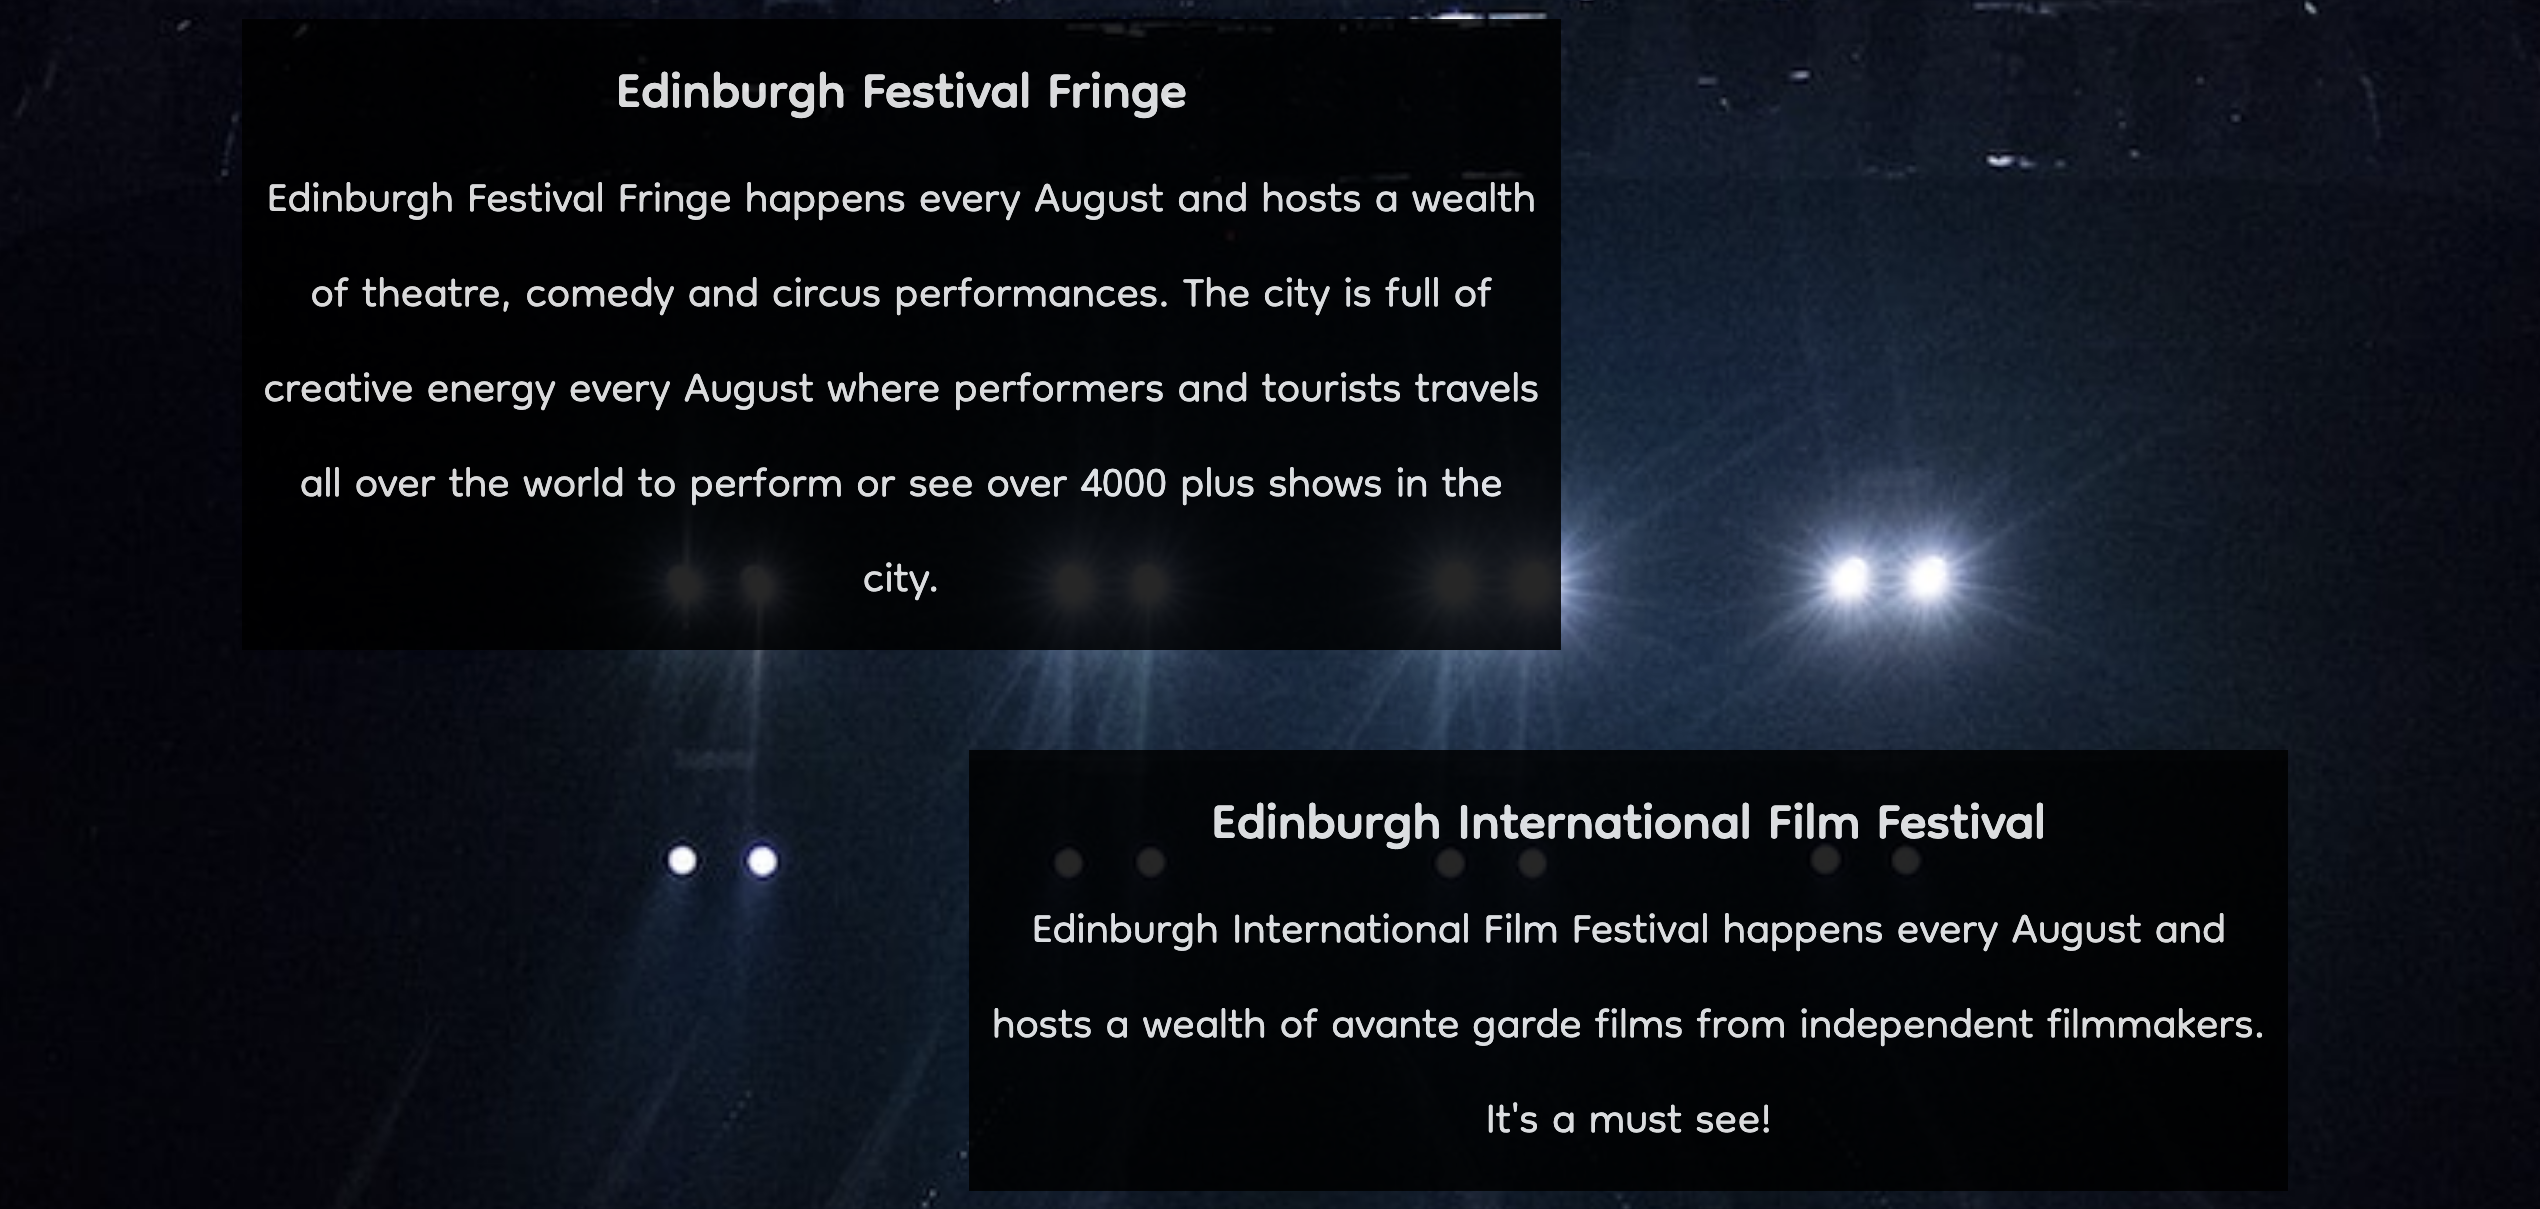
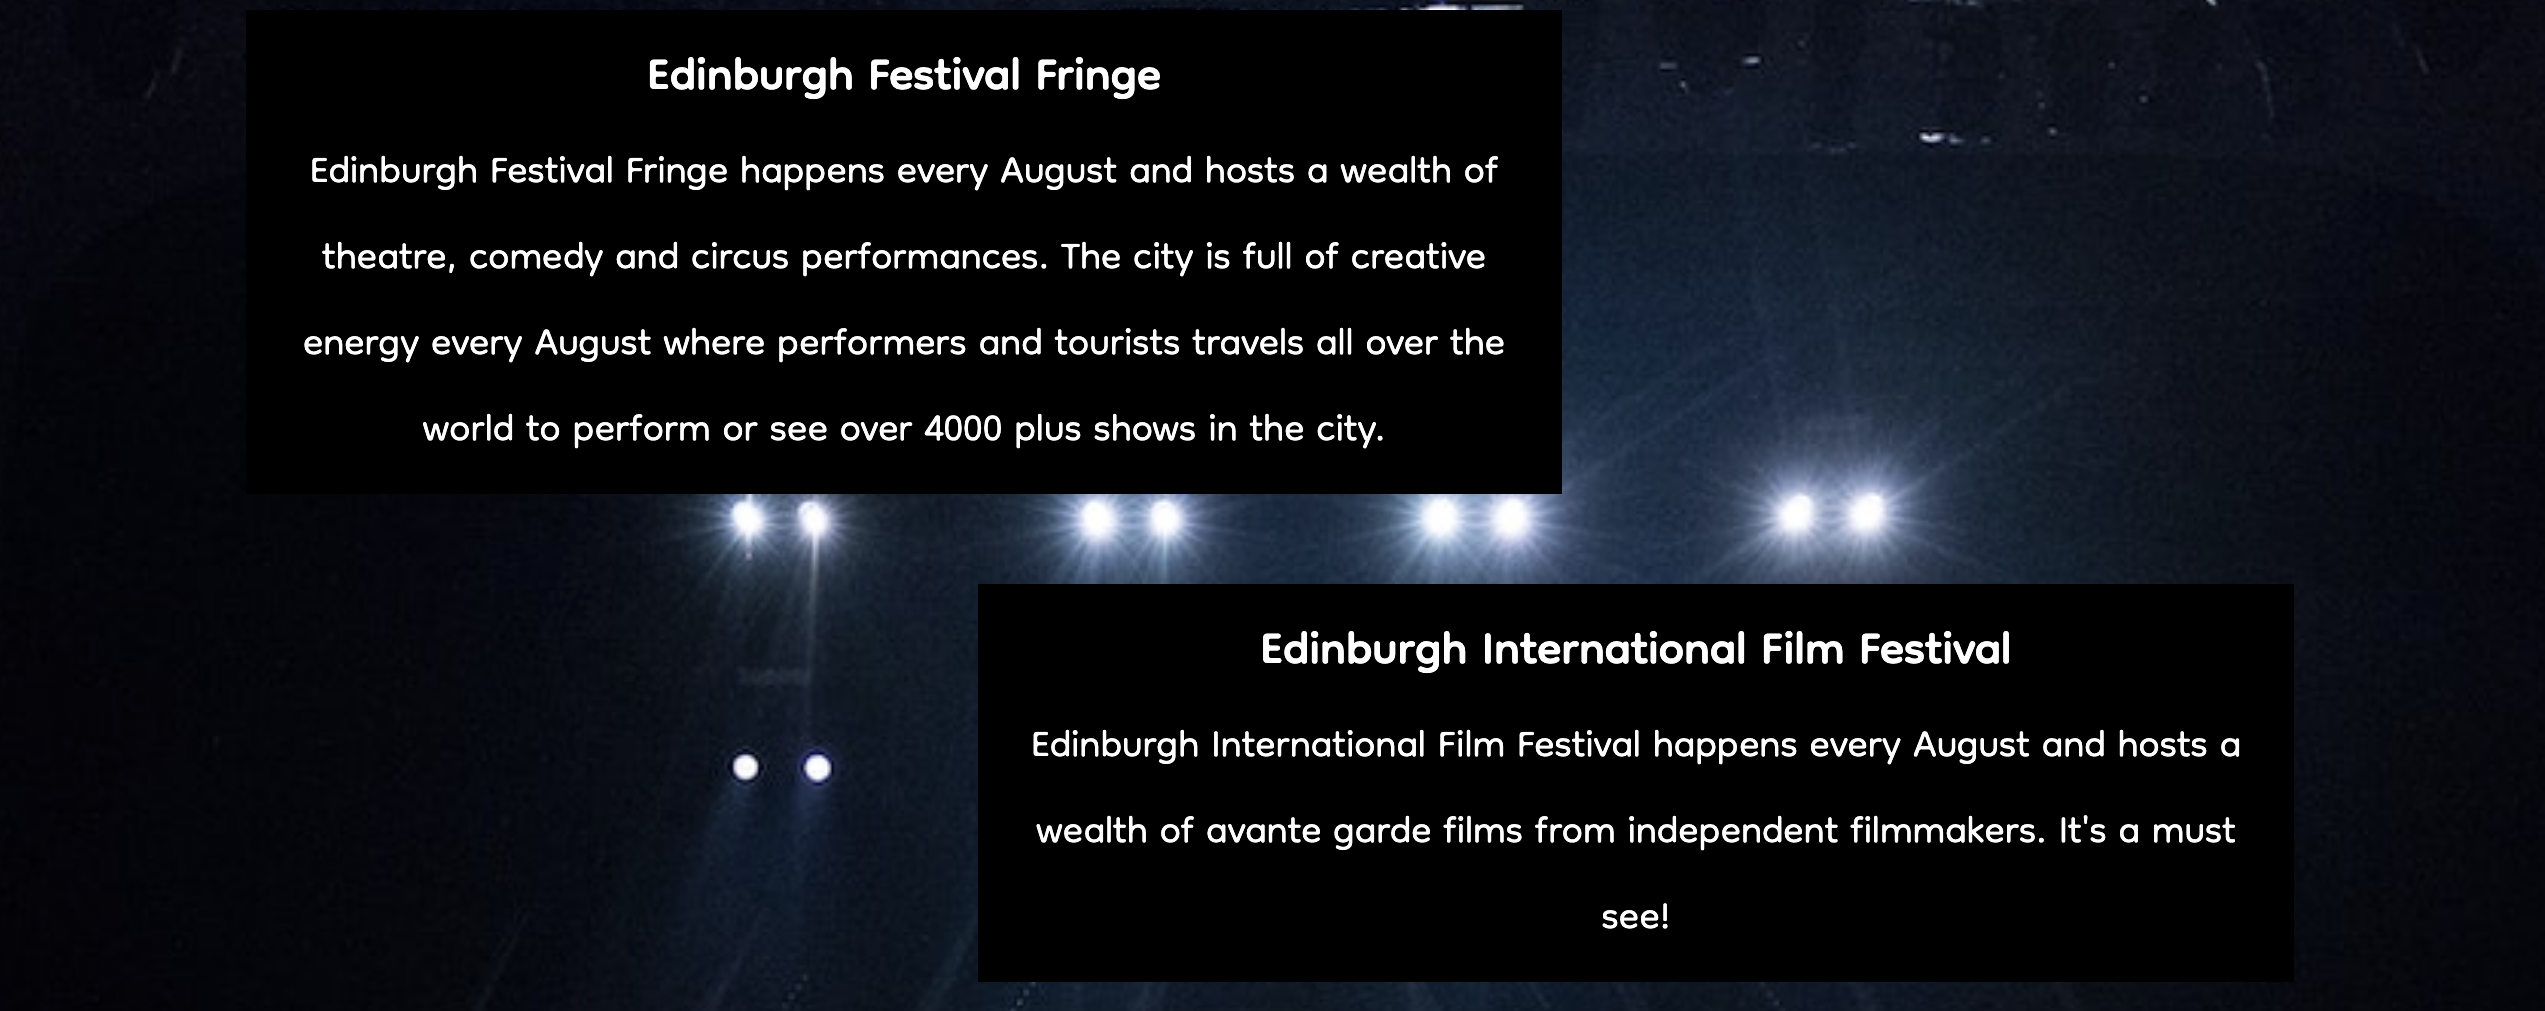
Removal of opacity effect on travel-text div and events divs and insertion of up-to-date screenshots in readme

diff --git a/assets/css/style.css b/assets/css/style.css
@@ -207,7 +207,6 @@ footer li {
     font-size: 1.85em;
     margin-bottom: 50px;
     background-color: black;
-    opacity: 0.85;
     width: 50%;
     text-align: center;
     padding: 10px;
@@ -223,16 +222,6 @@ footer li {
 #events-music {
     margin-right: 10%;
     float: right;
-}
-
-/* addition of hover effects of div elements on events page.
-Code taken from inspiration from https://www.w3schools.com/css/css_image_transparency.asp */
-
-#events-fringe:hover,
-#events-film:hover,
-#events-book:hover,
-#events-music:hover {
-    opacity: 1;
 }
 
 /* styling of text of eat+drink page */
@@ -278,7 +267,7 @@ Code taken from inspiration from https://www.w3schools.com/css/css_image_transpa
  image from pexels.com - https://www.pexels.com/photo/three-person-crossing-streets-2242170/ */
 
 #edin-travel {
-    background: url('../images/concert.jpg') no-repeat center center;
+    background: url('../images/edinburgh-travel.jpg') no-repeat center center;
     height: 1000px;
     width: 100%;
     padding-top: 20px;
@@ -298,8 +287,7 @@ Code taken from inspiration from https://www.w3schools.com/css/css_image_transpa
 
 #travel-text {
     color: white;
-    background-color: black;
-    opacity: 0.85;
+    background-color: rgb(23, 16, 16);
     width: 70%;
     text-align: center;
     margin: 0 auto;
@@ -317,7 +305,7 @@ Image from pexels.com - https://www.pexels.com/photo/photo-of-live-concert-15403
 #form-image {
     width: 100%;
     height: 800px;
-    background: url('../images/newsletter-signup.jpg') no-repeat center center;
+    background: url('../images/concert.jpg') no-repeat center center;
     background-size: cover;
 }
 
@@ -343,6 +331,8 @@ Image from pexels.com - https://www.pexels.com/photo/photo-of-live-concert-15403
     height: 20px;
     width: 50px;
 }
+
+/* Setting display to inline-block below was taken from advice from the following stack overflow post - https://stackoverflow.com/questions/4309950/how-to-align-input-forms-in-html */
 
 label {
     display: inline-block;

diff --git a/README.md b/README.md
@@ -164,14 +164,14 @@ This project is hosted using Github pages by executing the following steps;
 ### **Content** ###
  
 Due to my beginner experience in web development, aspects of this project were loosely based on the Code Institute Love Running project - in particular the header and footer elements. I did code the headers and footers from memory but then revisited the Love Running project walkthrough to ensure I hadn't forgotten anything (which I hadn't). In terms of specific code taken from the Love Running project, I have used the wildcard margin and padding code, in order to improve control of content positioning.
- 
-Opacity hover effects of div elements on the events page was taken from inspiration from [this W3 schools page](https://www.w3schools.com/css/css_image_transparency.asp).
- 
+
 I found the stack overflow reply written by [Red Zephyr Design and Terry](https://stackoverflow.com/questions/15042986/bootstrap-responsive-css-image-width-skewed-and-distorted) useful to remind me how to resize images so they will not be distorted on smaller or larger screen sizes or simply positioned correctly in normal screen sizes. I found the `height: auto;` and `background-size: contain;` useful.
  
 [The display W3 schools page](https://www.w3schools.com/cssref/pr_class_display.asp) was helpful in reminding me of all the display parameters I can use and their meaning.
  
 I had some difficulties aligning the labels in the form element to the inputs - I found the reply from [Byron](https://stackoverflow.com/questions/4309950/how-to-align-input-forms-in-html) on Stack Overflow really helpful, who suggested to use display: in-line-block; to the label in CSS to align the label with the input element.
+
+The [video](https://www.youtube.com/watch?v=JtR2XKFj9tQ) by Cem Eygi Media was helpful in troubleshooting the image positioning on the eat and drink page as discussed in the testing section.
  
 ### **Media** ###
  
